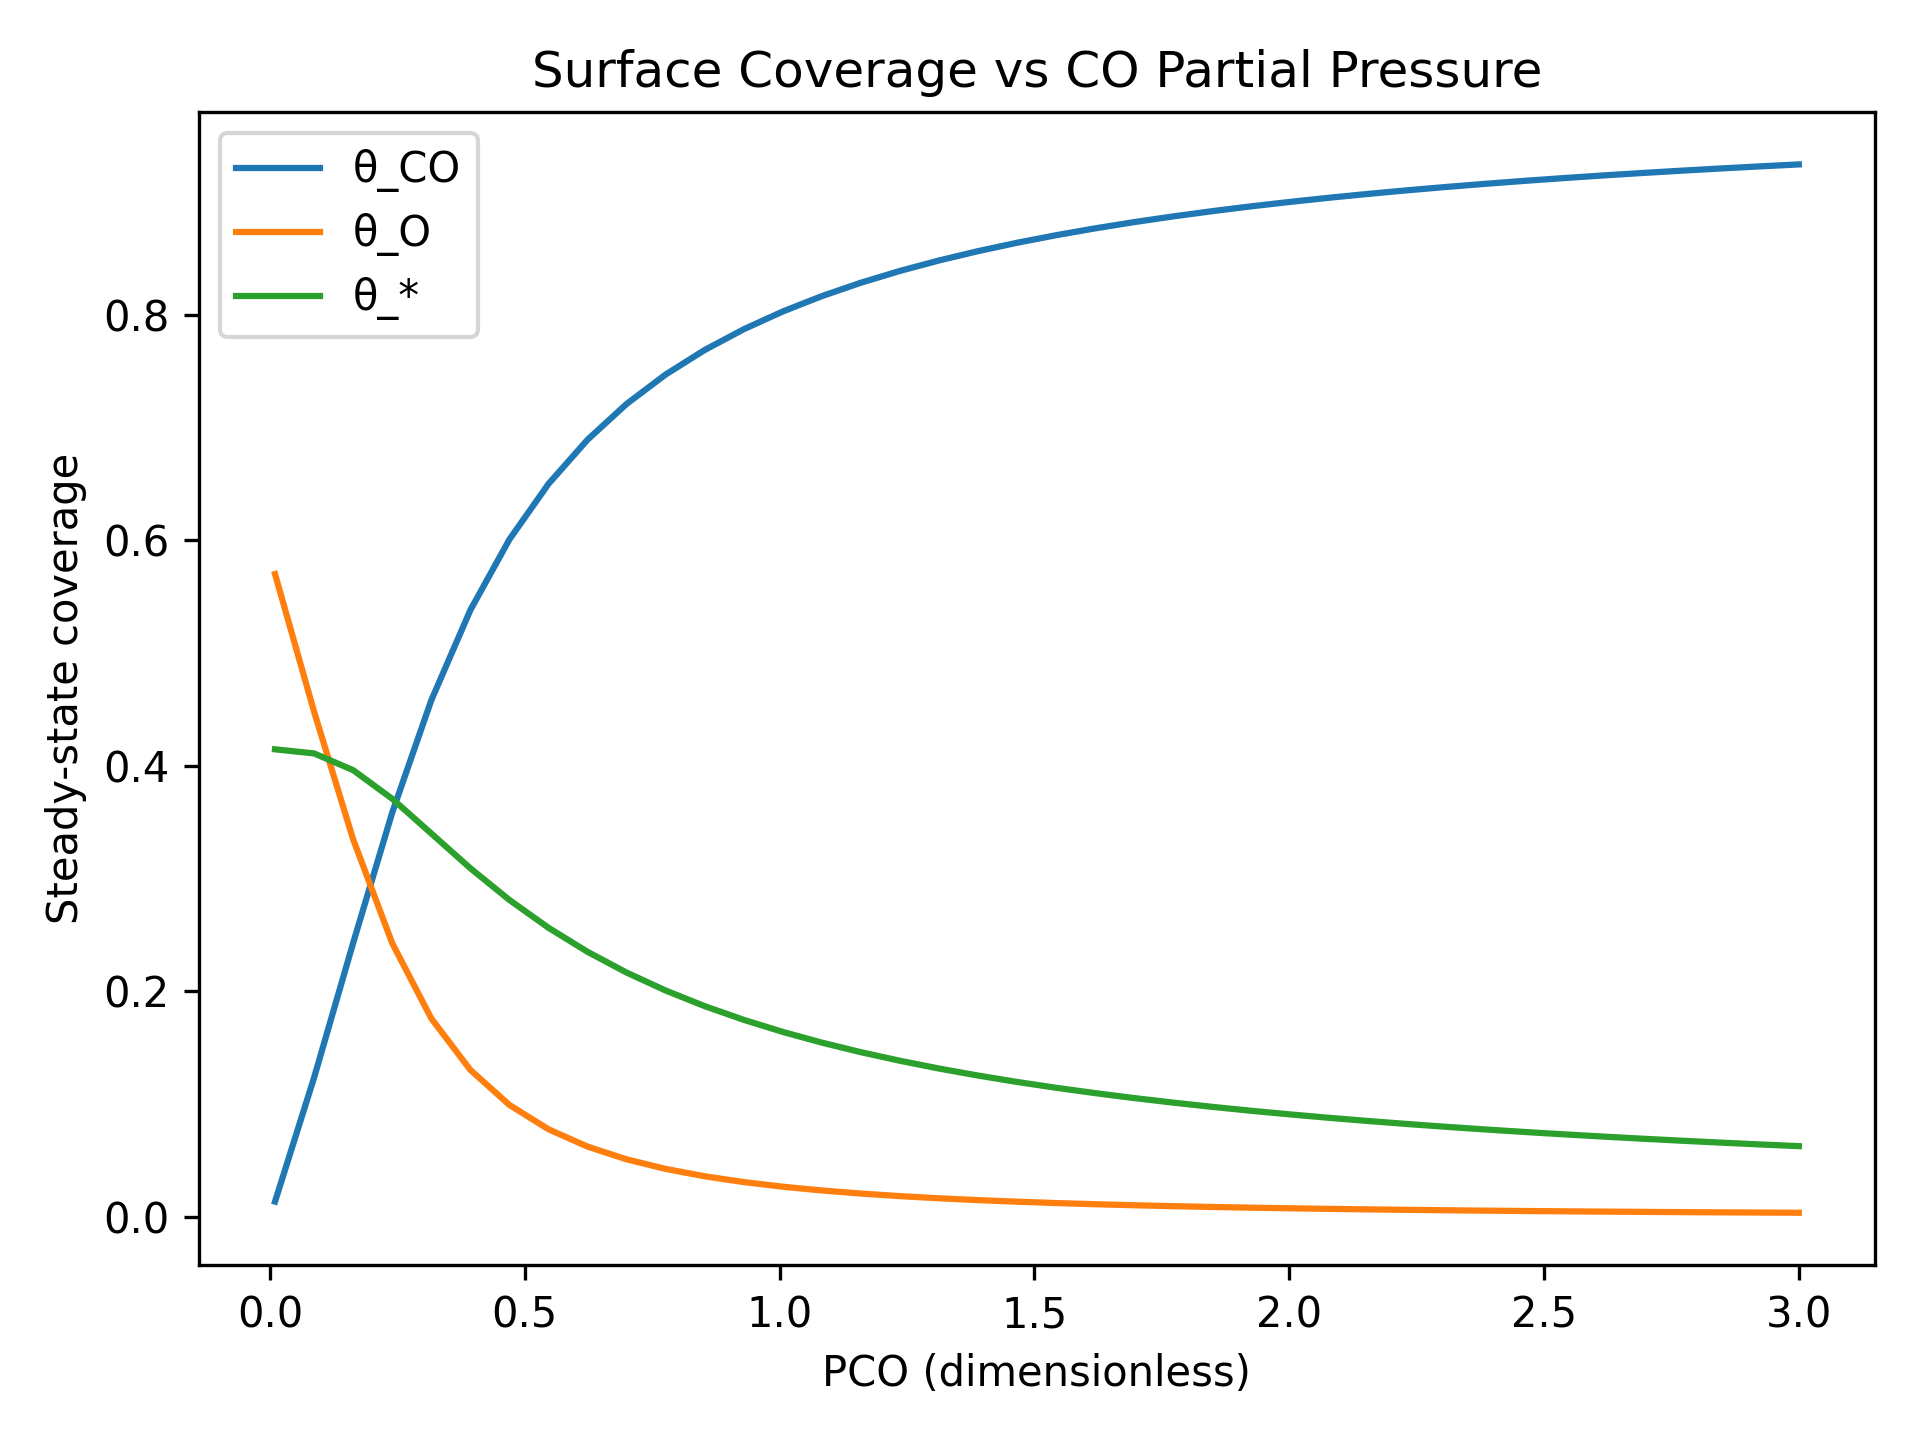
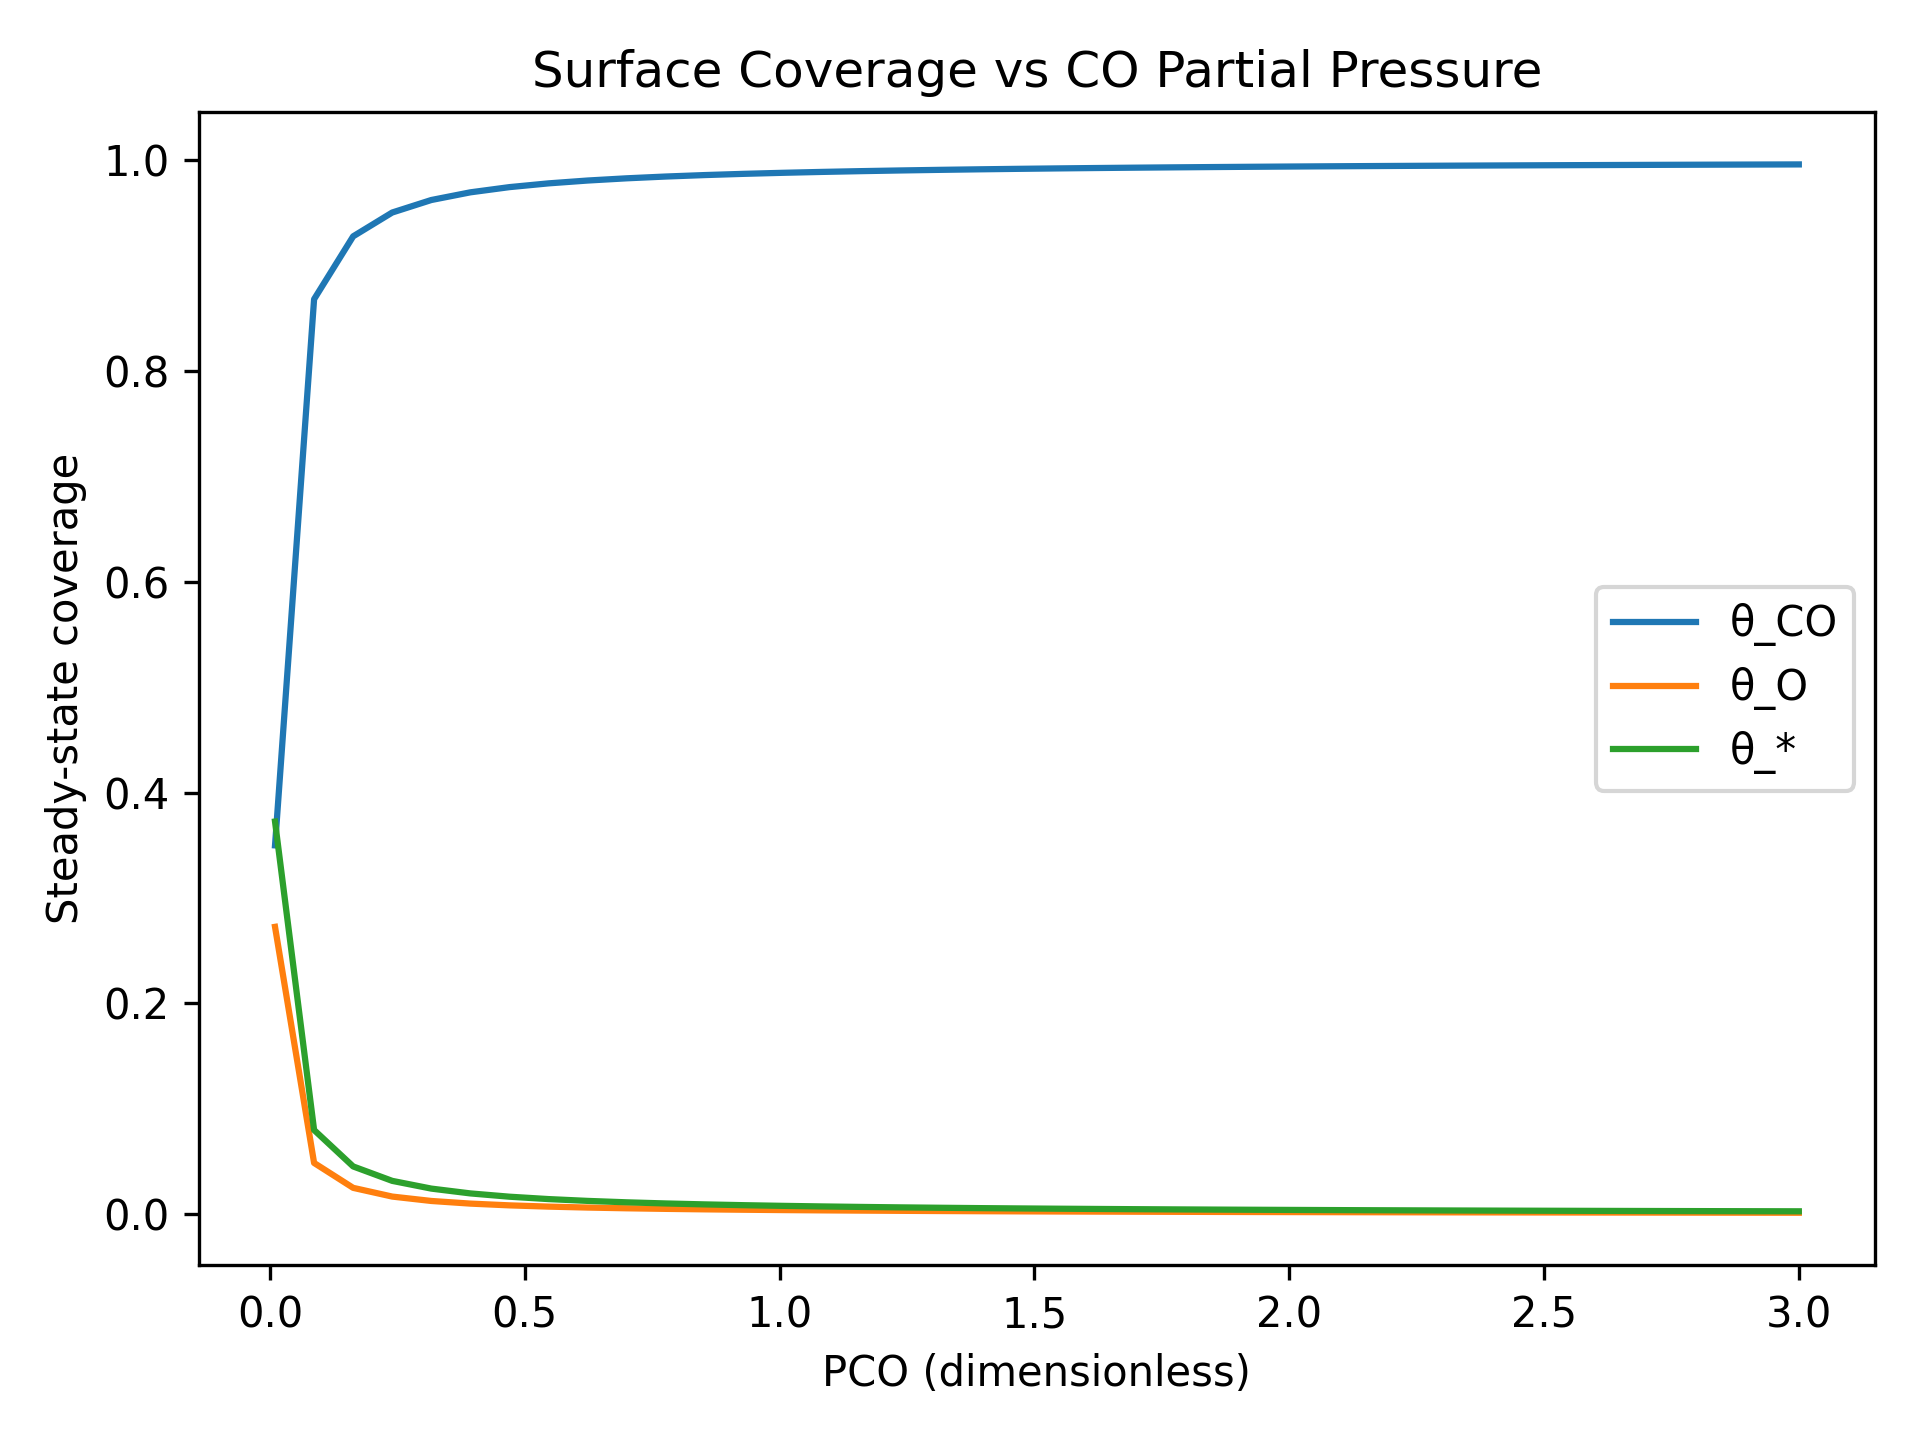
Plot TOF vs PCO on log scale for Arrhenius model

diff --git a/sweep_pco.py b/sweep_pco.py
@@ -9,14 +9,16 @@ def main():
     base_params = {
         "PO2": 0.2,
         "PCO2": 0.0,
-        
+
         "T": 600.0,
-        "A": 1e13,
-    
-        "E1f": 0.20, "E1r": 0.60,
-        "E2f": 0.80, "E2r": 1.00,
+        "A": 1e3,
+
+        # Activation energies (eV) — choose the set you’re currently using
+        # If you tuned these in baseline, paste the SAME numbers here.
+        "E1f": 0.35, "E1r": 0.60,
+        "E2f": 0.55, "E2r": 1.00,
         "E3f": 0.70, "E3r": 0.90,
-        "E4f": 0.40, "E4r": 1.20,
+        "E4f": 0.70, "E4r": 1.20,
     }
 
     PCO_values = np.linspace(0.01, 3.0, 40)
@@ -33,24 +35,24 @@ def main():
         sol, theta_ss, theta_star_ss = simulate_to_steady_state(params, t_final=80.0)
 
         r1, r2, r3, r4 = rates(theta_ss, params)
-        tof = r4
+        tofs.append(r4)
 
-        tofs.append(tof)
         thetaCO_ss.append(theta_ss[0])
         thetaO_ss.append(theta_ss[1])
         thetastar_ss.append(theta_star_ss)
 
-    # Figure 3: TOF vs PCO
+    # TOF vs PCO (log scale for readability)
     plt.figure()
     plt.plot(PCO_values, tofs, marker="o")
+    plt.yscale("log")
     plt.xlabel("PCO (dimensionless)")
     plt.ylabel("Steady-state TOF (net r4)")
-    plt.title("TOF vs CO Partial Pressure")
+    plt.title("TOF vs CO Partial Pressure (log scale)")
     plt.tight_layout()
     plt.savefig("figures/tof_vs_pco.png", dpi=300)
     plt.close()
 
-    # Optional diagnostic plot: coverages vs PCO (useful for interpretation)
+    # Coverages vs PCO
     plt.figure()
     plt.plot(PCO_values, thetaCO_ss, label="θ_CO")
     plt.plot(PCO_values, thetaO_ss, label="θ_O")
@@ -62,6 +64,11 @@ def main():
     plt.tight_layout()
     plt.savefig("figures/coverage_vs_pco.png", dpi=300)
     plt.close()
+
+    print("Saved: figures/tof_vs_pco.png")
+    print("Saved: figures/coverage_vs_pco.png")
+    print("TOF min/max:", min(tofs), max(tofs))
+
 
 if __name__ == "__main__":
     main()
